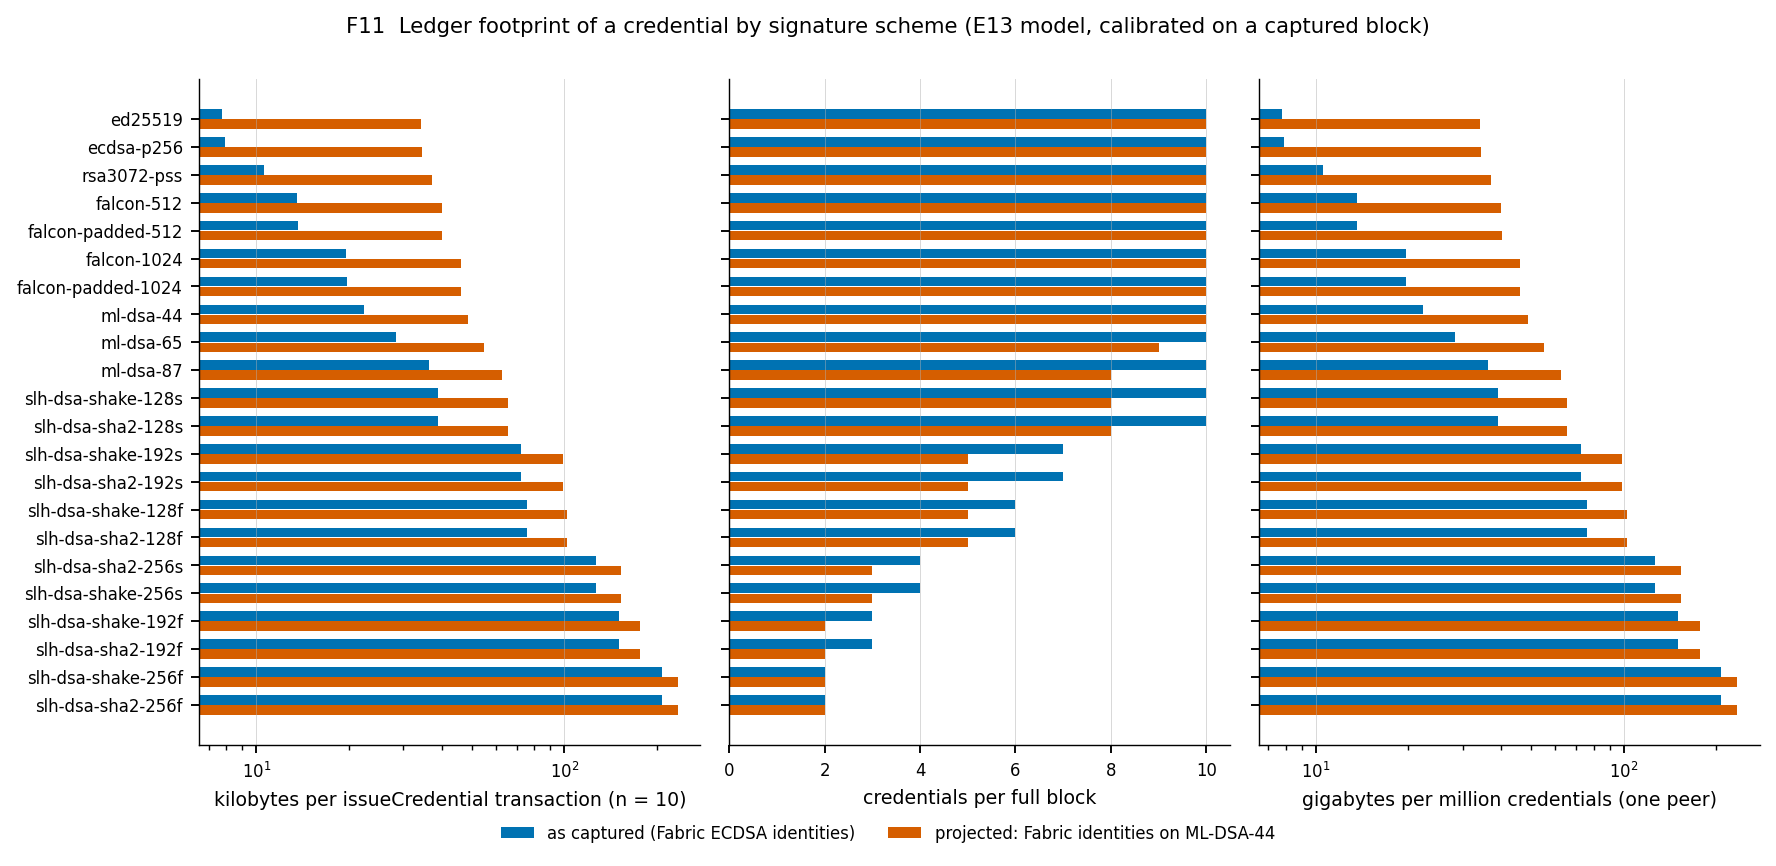
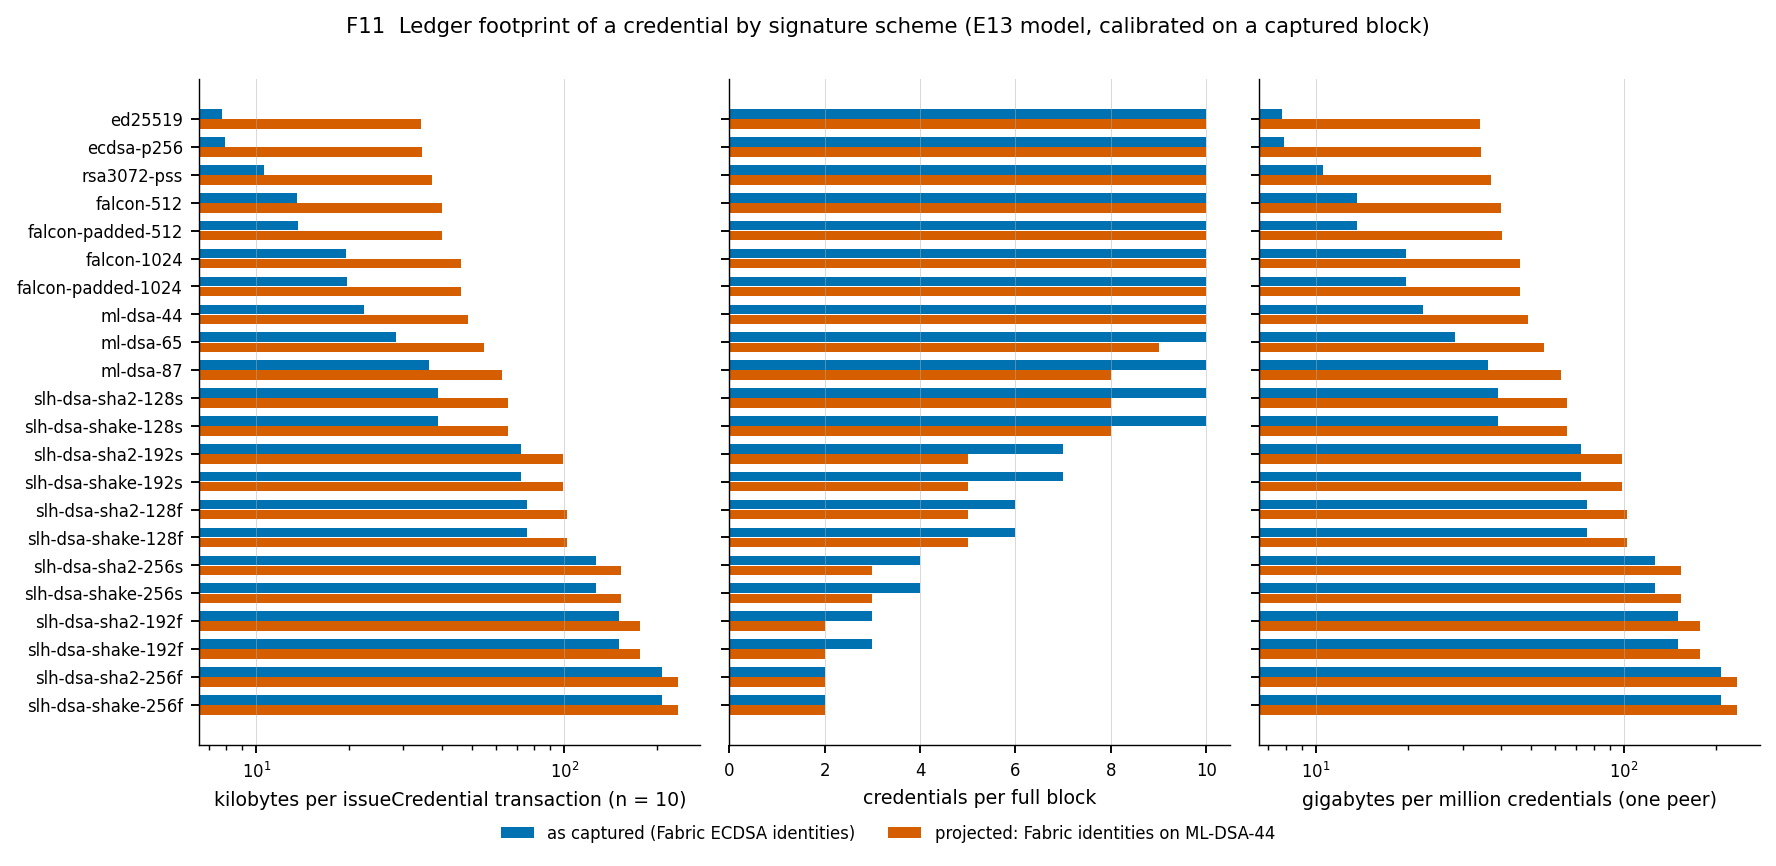
analysis: E14 table from the main run; reproducible figures
e14_sens.py selected the E14 smoke run; it now takes the main run 20261021-2135 through its manifest and aggregates per payload point and mode (6,360 transactions). PDFs no longer embed a creation date, and F11 breaks ties in its sort by name, so two runs of run_all.py give byte-identical tables and figures.

Changed region(s): [[0.0, 0.4365, 0.0929, 0.6547], [0.0, 0.6859, 0.0929, 0.8418]]

diff --git a/analysis/e14_sens.py b/analysis/e14_sens.py
@@ -13,19 +13,29 @@ from e1 import family  # noqa
 
 
 def e14():
-    d = glob.glob(os.path.join(RESULTS, "mac", "*fabric2.5.15"))[0]
+    """The MAIN E14 run (plan e14, kind main), aggregated per payload point and mode over its repetitions."""
+    import json
+    d = None
+    for cand in sorted(glob.glob(os.path.join(RESULTS, "mac", "*fabric2.5.15"))):
+        m = json.load(open(os.path.join(cand, "manifest.json")))
+        if m["plan"]["kind"] == "main" and m.get("status") == "done":
+            d = cand
+    rows_in = read_csv(os.path.join(d, "blocks.csv"))
+    groups = defaultdict(list)
+    for r in rows_in:
+        groups[(r["point"], r["mode"])].append(r)
     rows = []
-    for r in read_csv(os.path.join(d, "blocks.csv")):
-        rows.append([r["point"], r["mode"], r["rep"], r["n"], r["payload_bytes"], r["envelope_mean"],
-                     round(fnum(r["total_p50_ns"]) / 1e6, 1), round(fnum(r["total_p99_ns"]) / 1e6, 1),
-                     round(fnum(r["endorse_p50_ns"]) / 1e6, 2), round(fnum(r["commit_p50_ns"]) / 1e6, 1),
-                     r["ledger_blocks"], r["mvcc_conflicts"]])
+    for (point, mode), rs in sorted(groups.items()):
+        med = lambda c: float(np.median([fnum(r[c]) for r in rs]))
+        rows.append([point, mode, len(rs), sum(int(r["n"]) for r in rs), int(med("payload_bytes")), int(med("envelope_mean")),
+                     round(med("total_p50_ns") / 1e6, 1), round(med("total_p99_ns") / 1e6, 1), round(med("endorse_p50_ns") / 1e6, 2),
+                     round(med("commit_p50_ns") / 1e6, 1), sum(int(r["mvcc_conflicts"]) for r in rs), os.path.basename(d)])
     os.makedirs(OUT_TABLES, exist_ok=True)
     path = os.path.join(OUT_TABLES, "T13_E14_fabric_latency.csv")
     with open(path, "w", newline="") as f:
         w = csv.writer(f, lineterminator="\n")
-        w.writerow(["point", "mode", "rep", "transactions", "payload_bytes", "envelope_bytes", "total_p50_ms", "total_p99_ms",
-                    "endorse_p50_ms", "commit_p50_ms", "ledger_blocks", "mvcc_conflicts"])
+        w.writerow(["point", "mode", "blocks", "transactions", "payload_bytes", "envelope_bytes", "total_p50_ms", "total_p99_ms",
+                    "endorse_p50_ms", "commit_p50_ms", "mvcc_conflicts", "run"])
         w.writerows(rows)
     return rows
 

diff --git a/analysis/figures2.py b/analysis/figures2.py
@@ -180,7 +180,7 @@ def f10():
 def f11():
     L = table("T5_E13_ledger_issue_credential.csv")
     scen = ("measured", "projected-ml-dsa-44")
-    sigs = sorted({r["sig_scheme"] for r in L}, key=lambda a: float([r for r in L if r["sig_scheme"] == a and r["scenario"] == "measured" and r["attributes_n"] == "10" and r["quantity"] == "envelope"][0]["median"]))
+    sigs = sorted({r["sig_scheme"] for r in L}, key=lambda a: (float([r for r in L if r["sig_scheme"] == a and r["scenario"] == "measured" and r["attributes_n"] == "10" and r["quantity"] == "envelope"][0]["median"]), a))  # name breaks ties: set order varies per process
     fig, axs = plt.subplots(1, 3, figsize=(10.5, 4.8), sharey=True)
     for ax, (q, title, f) in zip(axs, (("envelope", "bytes per issueCredential transaction (n = 10)", 1), ("per_block_max", "issueCredential transactions that fit in one block", 1))):
         pass

diff --git a/analysis/figures_common.py b/analysis/figures_common.py
@@ -28,7 +28,7 @@ def table(name):
 
 def save(fig, name):
     os.makedirs(OUT_FIGS, exist_ok=True)
-    fig.savefig(os.path.join(OUT_FIGS, name + ".pdf"))
+    fig.savefig(os.path.join(OUT_FIGS, name + ".pdf"), metadata={"CreationDate": None})  # reproducible files
     fig.savefig(os.path.join(OUT_FIGS, name + ".png"), dpi=170)
     plt.close(fig)
     return name
